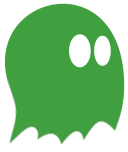
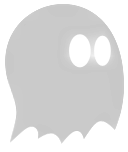
Almost done

diff --git a/GameProject/Sprites/PlayerSprite.cs b/GameProject/Sprites/PlayerSprite.cs
@@ -6,6 +6,7 @@ using Microsoft.Xna.Framework.Input;
 using Microsoft.Xna.Framework.Graphics;
 using Microsoft.Xna.Framework.Content;
 using GameProject.Collisions;
+using Microsoft.Xna.Framework.Audio;
 
 namespace GameProject
 {
@@ -28,24 +29,31 @@ namespace GameProject
 
         private bool flipped;
 
+        private SoundEffect _movementSound;
+
         public Vector2 Position { get; private set; } = new Vector2(600, 200);
 
-        private BoundingRectangle bounds = new BoundingRectangle(new Vector2(200, 200), 55, 60);
+        private BoundingRectangle _bounds = new BoundingRectangle(new Vector2(200, 200), 50, 55);
 
-        private GraphicsDevice graphics;
+        private GraphicsDevice _graphics;
+
+        private Color _color;
+
+        private bool _moving;
 
         /// <summary>
         /// Bounding volume of the sprite
         /// </summary>
-        public BoundingRectangle Bounds => bounds;
+        public BoundingRectangle Bounds => _bounds;
 
         /// <summary>
         /// Creates Player sprite
         /// </summary>
         /// <param name="graphics">The graphics device</param>
-        public PlayerSprite(GraphicsDevice graphics)
+        public PlayerSprite(GraphicsDevice graphics, SoundEffect sound)
         {
-            this.graphics = graphics;
+            this._graphics = graphics;
+            _movementSound = sound;
         }
 
         /// <summary>
@@ -66,35 +74,34 @@ namespace GameProject
         public void Update(GameTime gameTime)
         {
             keyboardState = Keyboard.GetState();
-
-            if (Position.X < graphics.Viewport.X
-                || Position.X > graphics.Viewport.Width - 64)
-            {
-                
-            }
-
-            if (Position.Y < graphics.Viewport.Y
-                || Position.Y > graphics.Viewport.Height - 64)
-            {
-                
-            }
+            _moving = false;
 
             // Apply keyboard movement
-            if ((keyboardState.IsKeyDown(Keys.Up) || keyboardState.IsKeyDown(Keys.W)) && Position.Y > graphics.Viewport.Y) Position += new Vector2(0, -5);
-            if ((keyboardState.IsKeyDown(Keys.Down) || keyboardState.IsKeyDown(Keys.S)) && Position.Y < graphics.Viewport.Height) Position += new Vector2(0, 5);
-            if ((keyboardState.IsKeyDown(Keys.Left) || keyboardState.IsKeyDown(Keys.A)) && Position.X > graphics.Viewport.X)
+            if ((keyboardState.IsKeyDown(Keys.Up) || keyboardState.IsKeyDown(Keys.W)) && Position.Y > _graphics.Viewport.Y + 27)
+            {
+                Position += new Vector2(0, -5);
+                _moving = true;
+            }
+            if ((keyboardState.IsKeyDown(Keys.Down) || keyboardState.IsKeyDown(Keys.S)) && Position.Y < _graphics.Viewport.Height - 27)
+            {
+                Position += new Vector2(0, 5);
+                _moving = true;
+            }
+            if ((keyboardState.IsKeyDown(Keys.Left) || keyboardState.IsKeyDown(Keys.A)) && Position.X > _graphics.Viewport.X + 25)
             {
                 Position += new Vector2(-5,0);
                 flipped = true;
+                _moving = true;
             }
-            if ((keyboardState.IsKeyDown(Keys.Right) || keyboardState.IsKeyDown(Keys.D)) && Position.X < graphics.Viewport.Width)
+            if ((keyboardState.IsKeyDown(Keys.Right) || keyboardState.IsKeyDown(Keys.D)) && Position.X < _graphics.Viewport.Width - 25)
             {
                 Position += new Vector2(5, 0);
                 flipped = false;
+                _moving = true;
             }
             // Update the bounds
-            bounds.X = Position.X - 16;
-            bounds.Y = Position.Y - 16;
+            _bounds.X = Position.X - 16;
+            _bounds.Y = Position.Y - 16;
         }            
 
         /// <summary>
@@ -106,17 +113,22 @@ namespace GameProject
         {
             SpriteEffects spriteEffects = (flipped) ? SpriteEffects.FlipHorizontally : SpriteEffects.None;
             animationTimer += gameTime.ElapsedGameTime.TotalSeconds;
-
             if (animationTimer > ANIMATION_SPEED)
             {
-                animationFrame++;
-                if (animationFrame > 3) animationFrame = 0;
+                if (_moving)
+                {
+                    _color = Color.Cyan;
+                    animationFrame++;
+                    if (animationFrame > 3) animationFrame = 0;
+                    _movementSound.Play();
+                }
+                else _color = Color.LightBlue;  
                 animationTimer -= ANIMATION_SPEED;
                 
             }         
-            if(animationFrame == 0)spriteBatch.Draw(texture, Position, null, Color.Red, 0, new Vector2(64,64), 0.5f, spriteEffects, 0);
-            else if(animationFrame == 1)spriteBatch.Draw(texture2, Position, null, Color.Red, 0, new Vector2(64, 64), 0.5f, spriteEffects, 0);
-            else spriteBatch.Draw(texture1, Position, null, Color.Red, 0, new Vector2(64, 64), 0.5f, spriteEffects, 0);
+            if(animationFrame == 0)spriteBatch.Draw(texture, Position, null, _color, 0, new Vector2(64,64), 0.5f, spriteEffects, 0);
+            else if(animationFrame == 1)spriteBatch.Draw(texture2, Position, null, _color, 0, new Vector2(64, 64), 0.5f, spriteEffects, 0);
+            else spriteBatch.Draw(texture1, Position, null, _color, 0, new Vector2(64, 64), 0.5f, spriteEffects, 0);
         }
     }
 }

diff --git a/GameProject/Screens/GameplayScreen.cs b/GameProject/Screens/GameplayScreen.cs
@@ -17,14 +17,15 @@ namespace GameProject.Screens
         private const int OBSTACLE_COUNT = 10;
         private ContentManager _content;
 
-        private SoundEffect deathSound;
+        private SoundEffect _deathSound;
+        private SoundEffect _movementSound;
 
-        private ObstacleSprite[] obstacles;
-        private PlayerSprite playerSprite;
+        private ObstacleSprite[] _obstacles;
+        private PlayerSprite _playerSprite;
         private Stopwatch _timer;
         private double score;
-        private SpriteFont bangers;
-        private Song backgroundMusic;
+        private SpriteFont _bangers;
+        private Song _backgroundMusic;
         private Texture2D _background;
 
         private readonly Random _random = new Random();
@@ -51,25 +52,28 @@ namespace GameProject.Screens
             Vector2 position = new Vector2(0,0);
             System.Random random = new System.Random();
 
-            playerSprite = new PlayerSprite(ScreenManager.GraphicsDevice);
-            obstacles = new ObstacleSprite[OBSTACLE_COUNT];
+            _bangers = _content.Load<SpriteFont>("bangers");
+            _deathSound = _content.Load<SoundEffect>("DeathAudio");
+            _movementSound = _content.Load<SoundEffect>("Movement");
+            _backgroundMusic = _content.Load<Song>("BackgroundMusic");
+            _background = _content.Load<Texture2D>("ScrollingBackground");
+
+            _playerSprite = new PlayerSprite(ScreenManager.GraphicsDevice, _movementSound);
+            _obstacles = new ObstacleSprite[OBSTACLE_COUNT];
             for (int i = 0; i < OBSTACLE_COUNT; i++)
             {
                 Vector2 velocity = new Vector2((float)random.NextDouble(), (float)random.NextDouble());
                 velocity.Normalize();
                 velocity *= 200;
-                obstacles[i] = new ObstacleSprite(velocity, position, ScreenManager.GraphicsDevice, ScreenManager.Game);
+                _obstacles[i] = new ObstacleSprite(velocity, position, ScreenManager.GraphicsDevice, ScreenManager.Game);
 
             }
 
-            playerSprite.LoadContent(_content);
-            foreach (var obstacle in obstacles) obstacle.LoadContent(_content);
-            bangers = _content.Load<SpriteFont>("bangers");
-            deathSound = _content.Load<SoundEffect>("DeathAudio");
-            backgroundMusic = _content.Load<Song>("BackgroundMusic");
-            _background = _content.Load<Texture2D>("ScrollingBackground");
+            _playerSprite.LoadContent(_content);
+            foreach (var obstacle in _obstacles) obstacle.LoadContent(_content);
+            
             MediaPlayer.IsRepeating = true;
-            MediaPlayer.Play(backgroundMusic);
+            MediaPlayer.Play(_backgroundMusic);
             _timer = new Stopwatch();
             _timer.Start();
 
@@ -106,11 +110,11 @@ namespace GameProject.Screens
 
             if (IsActive)
             {
-                    playerSprite.Update(gameTime);
-                    foreach (var obstacle in obstacles)
+                    _playerSprite.Update(gameTime);
+                    foreach (var obstacle in _obstacles)
                     {
                         obstacle.Update(gameTime);
-                        if (obstacle.Bounds.CollidesWith(playerSprite.Bounds))
+                        if (obstacle.Bounds.CollidesWith(_playerSprite.Bounds))
                         {
                         ScreenManager.ToggleSparks();
                         score = _timer.Elapsed.TotalSeconds;
@@ -119,10 +123,10 @@ namespace GameProject.Screens
                         ScreenManager.RemoveScreen(this);
                         ScreenManager.AddScreen(new BackgroundScreen(), null);
                         ScreenManager.AddScreen(new DeathMenuScreen(Math.Round(score, 2).ToString()), null);
-                        ScreenManager.Flash(playerSprite.Position);
-                        ScreenManager.Flash(playerSprite.Position);
-                        ScreenManager.Flash(playerSprite.Position);
-                        deathSound.Play();
+                        ScreenManager.Flash(_playerSprite.Position);
+                        ScreenManager.Flash(_playerSprite.Position);
+                        ScreenManager.Flash(_playerSprite.Position);
+                        _deathSound.Play();
                         MediaPlayer.Pause();
                         break;
                         }
@@ -144,9 +148,9 @@ namespace GameProject.Screens
             spriteBatch.End();
 
             spriteBatch.Begin();
-            foreach (var obstacle in obstacles) obstacle.Draw(gameTime, spriteBatch);
-            playerSprite.Draw(gameTime, spriteBatch);
-            spriteBatch.DrawString(bangers, (Math.Round(_timer.Elapsed.TotalSeconds, 2)).ToString(),
+            foreach (var obstacle in _obstacles) obstacle.Draw(gameTime, spriteBatch);
+            _playerSprite.Draw(gameTime, spriteBatch);
+            spriteBatch.DrawString(_bangers, (Math.Round(_timer.Elapsed.TotalSeconds, 2)).ToString(),
                 new Vector2(2, 2), Color.White);
             spriteBatch.End();
 

diff --git a/GameProject/Sprites/ObstacleSprite.cs b/GameProject/Sprites/ObstacleSprite.cs
@@ -42,7 +42,7 @@ namespace GameProject
             this.Velocity = velocity;
             this.Position = position;
             this.graphics = graphics;
-            this.bounds = new BoundingCircle(position + new Vector2(16, 16), 20);
+            this.bounds = new BoundingCircle(position + new Vector2(16, 16), 16);
             fire = new FireParticleSystem(game, this);
             game.Components.Add(fire);
         }
@@ -79,12 +79,12 @@ namespace GameProject
             }
 
             if (Position.Y < graphics.Viewport.Y
-                || Position.Y > graphics.Viewport.Height)
+                || Position.Y + 16 > graphics.Viewport.Height)
             {
                 Velocity = new Vector2(Velocity.X, -Velocity.Y);
             }
             //Update the bounds
-            bounds.Center = new Vector2(Position.X + 24, Position.Y + 30);
+            bounds.Center = new Vector2(Position.X + 16, Position.Y + 16);
         }
 
         /// <summary>

diff --git a/GameProject/Screens/LoadingScreen.cs b/GameProject/Screens/LoadingScreen.cs
@@ -90,7 +90,7 @@ namespace GameProject.Screens
                 var spriteBatch = ScreenManager.SpriteBatch;
                 var font = ScreenManager.Font;
 
-                const string message = "Try to not get hit by fireballs";
+                const string message = "Try to avoid fireballs as long as possible";
                 const string message2 = "Use WASD or arrow keys to move";
 
                 // Center the text in the viewport.
